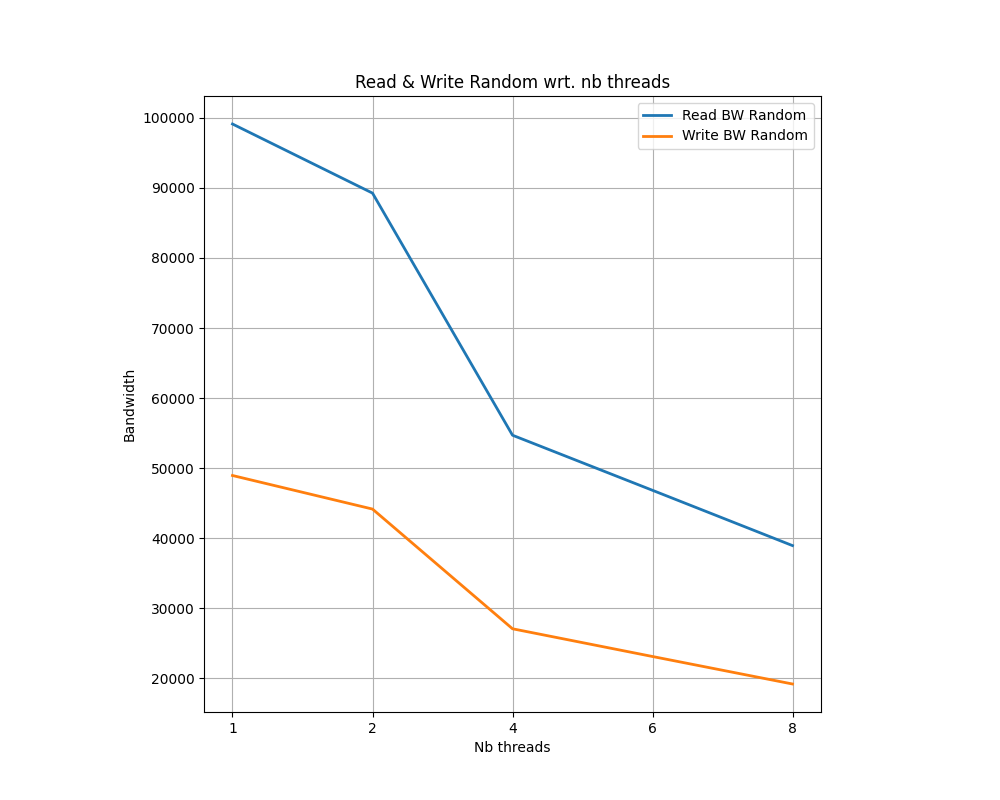
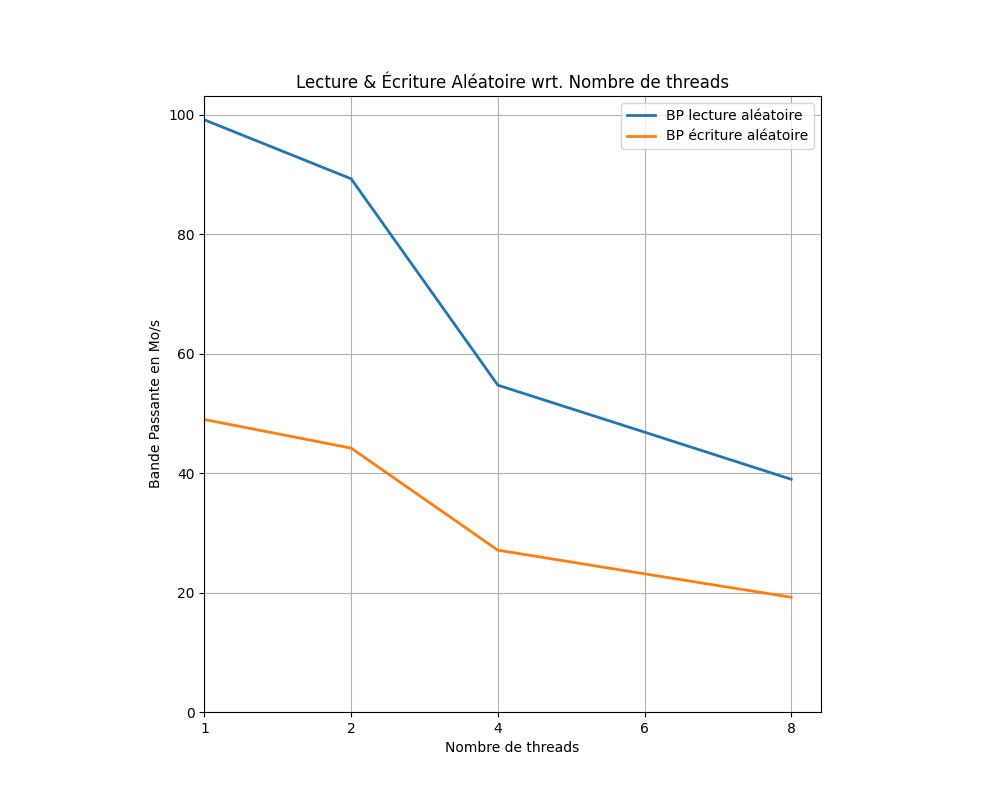
changement des légendes et échelles

diff --git a/src/q1.py b/src/q1.py
@@ -2,35 +2,93 @@ import matplotlib.pyplot as plt
 from const import *
 
 def rand_rw_part(data, output_path):
-	bw_read_rw = extract_data(data, 1, 'read','bw')
-	bw_write_rw = extract_data(data, 1, 'write','bw')
+    bw_read_rw = extract_data(data, 1, 'read','bw')
+    bw_write_rw = extract_data(data, 1, 'write','bw')
 
-	bw_read_randrw = extract_data(data, 0, 'read', 'bw')
-	bw_write_randrw = extract_data(data, 0, 'write', 'bw')
+    bw_read_randrw = extract_data(data, 0, 'read', 'bw')
+    bw_write_randrw = extract_data(data, 0, 'write', 'bw')
 
-	_, axs = plt.subplots(1, 2, figsize=(14,7))
-	axs = axs.ravel()
-		
-	axs[0].plot(listeQ1, bw_read_randrw, lw=2, label="Read BW Random")
-	axs[0].plot(listeQ1, bw_read_rw, lw=2, label="Read BW")
+    bw_read_rw = [value/10**3 for value in bw_read_rw]
+    bw_write_rw = [value/10**3 for value in bw_write_rw]
 
-	axs[1].plot(listeQ1, bw_write_randrw, lw=2, label="Write BW Random")
-	axs[1].plot(listeQ1, bw_write_rw, lw=2, label="Write BW")
+    bw_read_randrw = [value/10**3 for value in bw_read_randrw]
+    bw_write_randrw = [value/10**3 for value in bw_write_randrw]
 
-	axs[0].set_title("Read Sequential Vs. Random wrt. % of write")
-	axs[0].set_xlabel("Pourcentage of read")
-	axs[0].set_ylabel("Bandwidth")
-	axs[0].legend(loc='best')
-	axs[0].grid(True)
+    _, axs = plt.subplots(1, 2, figsize=(14,7))
+    axs = axs.ravel()
+        
+    axs[0].plot(listeQ1, bw_read_randrw, lw=2, label="BP lecture aléatoire")
+    axs[0].plot(listeQ1, bw_read_rw, lw=2, label="BP lecture séquentielle")
 
-	axs[1].set_title("Write Sequential Vs. Random wrt. % of write")
-	axs[1].set_xlabel("Pourcentage of write")
-	axs[1].set_ylabel("Bandwidth")
-	axs[1].legend(loc='lower right')
-	axs[1].grid(True)
+    axs[1].plot(listeQ1, bw_write_randrw, lw=2, label="BP écriture aléatoire")
+    axs[1].plot(listeQ1, bw_write_rw, lw=2, label="BP écriture séquentielle")
 
-	plt.tight_layout()
-	plt.savefig(output_path)
+    axs[0].set_title("Lecture Sequentielle Vs. Aléatoire wrt. % d'écriture")
+    axs[0].set_xlabel("Pourcentage d'écriture")
+    axs[0].set_ylabel("Bande Passante en Mo/s")
+    axs[0].legend(loc='best')
+    axs[0].grid(True)
+
+    axs[1].set_title("Écriture Sequentielle Vs. Aléatoire wrt. % d'écriture")
+    axs[1].set_xlabel("Pourcentage d'écriture")
+    axs[1].set_ylabel("Bande Passante en Mo/s")
+    axs[1].legend(loc='lower right')
+    axs[1].grid(True)
+
+    axs[0].set_xlim(left=-0.5)
+    axs[0].set_ylim(bottom=-0.5)
+
+    axs[1].set_xlim(left=-0.5)
+    axs[1].set_ylim(bottom=-0.5)
+
+    plt.tight_layout()
+    plt.savefig(output_path)
     
+def bw_part(data, output_path):
+    bw_read_rw = extract_data(data, 1, 'read','bw')
+    bw_write_rw = extract_data(data, 1, 'write','bw')
+
+    bw_read_randrw = extract_data(data, 0, 'read', 'bw')
+    bw_write_randrw = extract_data(data, 0, 'write', 'bw')
+
+    bw_read_rw = [value/10**3 for value in bw_read_rw]
+    bw_write_rw = [value/10**3 for value in bw_write_rw]
+
+    bw_read_randrw = [value/10**3 for value in bw_read_randrw]
+    bw_write_randrw = [value/10**3 for value in bw_write_randrw]
+
+    bw_rw = []
+    bw_randrw = []
+
+    for i in range(len(bw_read_randrw)):
+        bw_rw.append((bw_read_rw[i] + bw_write_rw[i]) / 2)
+        bw_randrw.append((bw_read_randrw[i] + bw_write_randrw[i]) / 2)
+
+    _, axs = plt.subplots(1, 2, figsize=(19,7))
+    axs = axs.ravel()
+        
+    axs[0].scatter(listeQ1, bw_rw, label="BP Moyenne Séquentielle")
+    axs[1].scatter(listeQ1, bw_randrw, label="BP Moyenne Aléatoire")
+
+    axs[0].set_title("Bande Passante Moyenne wrt. % d'écriture")
+    axs[0].set_xlabel("Pourcentage d'écriture")
+    axs[0].set_ylabel("Bande Passante en Mo/s")
+    axs[0].legend(loc='best')
+
+    axs[1].set_title("Bande Passante Moyenne wrt. % d'écriture")
+    axs[1].set_xlabel("Pourcentage d'écriture")
+    axs[1].set_ylabel("Bande Passante en Mo/s")
+    axs[1].legend(loc='lower right')
+
+    axs[0].set_xlim(left=-0.5)
+    axs[0].set_ylim(bottom=-0.5)
+
+    axs[1].set_xlim(left=-0.5)
+    axs[1].set_ylim(bottom=-0.5)
+
+    plt.tight_layout()
+    plt.savefig(output_path)
+
 data = import_data()
 rand_rw_part(data, "../plots/bw_rw_rand_part.png")
+bw_part(data, "../plots/bw_part.png")

diff --git a/src/q3.py b/src/q3.py
@@ -11,8 +11,8 @@ def rand_rw_size(data, output_path):
 
 	percentiles = [float(value) for value in percentiles]
 
-	percentile_split_read = np.array([float(value) for value in percentile_split_read])
-	percentile_split_write = np.array([float(value) for value in percentile_split_write])
+	percentile_split_read = np.array([float(value) / 10**6 for value in percentile_split_read])
+	percentile_split_write = np.array([float(value) / 10**6 for value in percentile_split_write])
 
 	# percentile_default_read = list(bw_read_percentile[1][0]['percentile'].values())
 	# percentile_default_write = list(bw_write_percentile[1][0]['percentile'].values())
@@ -24,15 +24,18 @@ def rand_rw_size(data, output_path):
 
 	X_axis = np.arange(len(percentile_split_read[2:11])) 
 
-	plt.bar(X_axis - 0.2, percentile_split_read[2:11], 0.4, label = 'CLat of Read Bssplit') 
-	plt.bar(X_axis + 0.2, percentile_split_write[2:11], 0.4, label = 'CLat of Write Bssplit') 
+	plt.bar(X_axis - 0.2, percentile_split_read[2:11], 0.4, label = "Latence Complète de la lecture du split") 
+	plt.bar(X_axis + 0.2, percentile_split_write[2:11], 0.4, label = "Latence Complète de l'écriture du split") 
 
-	plt.title("Complete Latency of Read/Write Bssplit wrt. Percentiles")
+	plt.title("Latence Complète de la Lecture/Écriture du split wrt. Centiles")
 	plt.xticks(X_axis, percentiles[2:11]) 
-	plt.xlabel("Percentiles")
-	plt.ylabel("CLat")
+	plt.xlabel("Centiles")
+	plt.ylabel("Latence Complète")
 	plt.legend(loc='best')
 	plt.grid(True)
+
+	plt.xlim(left=-1)
+	plt.ylim(bottom=0)
 
 	plt.savefig(output_path)
     

diff --git a/src/q2.py b/src/q2.py
@@ -4,18 +4,24 @@ from const import *
 def rand_rw_size(data, output_path):
 	bw_read_randrw = extract_data(data, 2, 'read', 'bw')
 	bw_write_randrw = extract_data(data, 2, 'write', 'bw')
+
+	bw_read_randrw = [value/10**3 for value in bw_read_randrw]
+	bw_write_randrw = [value/10**3 for value in bw_write_randrw]
 	
 	_, ax = plt.subplots(1, 1, figsize=(10, 8))
 	ax.set_box_aspect(1)
 
-	plt.plot(listeQ2, bw_read_randrw, lw=2, label="Read BW Random")
-	plt.plot(listeQ2, bw_write_randrw, lw=2, label="Write BW Random")
+	plt.plot(listeQ2, bw_read_randrw, lw=2, label="BP lecture aléatoire")
+	plt.plot(listeQ2, bw_write_randrw, lw=2, label="BP écriture aléatoire")
 
-	plt.title("Read & Write Random wrt. request size")
-	plt.xlabel("Request size")
-	plt.ylabel("Bandwidth")
+	plt.title("Lecture & Écriture Aléatoire wrt. taille de la requête")
+	plt.xlabel("Taille de la requête")
+	plt.ylabel("Bande Passante en Mo/s")
 	plt.legend(loc='best')
 	plt.grid(True)
+
+	plt.xlim(left=0)
+	plt.ylim(bottom=0)
 
 	plt.savefig(output_path)
     

diff --git a/src/q4.py b/src/q4.py
@@ -5,17 +5,23 @@ def rand_rw_parallel(data, output_path):
 	bw_read_randrw = extract_data(data, 4, 'read', 'bw')
 	bw_write_randrw = extract_data(data, 4, 'write', 'bw')
 
+	bw_read_randrw = [value/10**3 for value in bw_read_randrw]
+	bw_write_randrw = [value/10**3 for value in bw_write_randrw]
+
 	_, ax = plt.subplots(1, 1, figsize=(10, 8))
 	ax.set_box_aspect(1)
 
-	plt.plot(listeQ4, bw_read_randrw, lw=2, label="Read BW Random")
-	plt.plot(listeQ4, bw_write_randrw, lw=2, label="Write BW Random")
+	plt.plot(listeQ4, bw_read_randrw, lw=2, label="BP lecture aléatoire")
+	plt.plot(listeQ4, bw_write_randrw, lw=2, label="BP écriture aléatoire")
 
-	plt.title("Read & Write Random wrt. nb threads")
-	plt.xlabel("Nb threads")
-	plt.ylabel("Bandwidth")
+	plt.title("Lecture & Écriture Aléatoire wrt. Nombre de threads")
+	plt.xlabel("Nombre de threads")
+	plt.ylabel("Bande Passante en Mo/s")
 	plt.legend(loc='best')
 	plt.grid(True)
+
+	plt.xlim(left=0)
+	plt.ylim(bottom=0)
 
 	plt.savefig(output_path)
     
